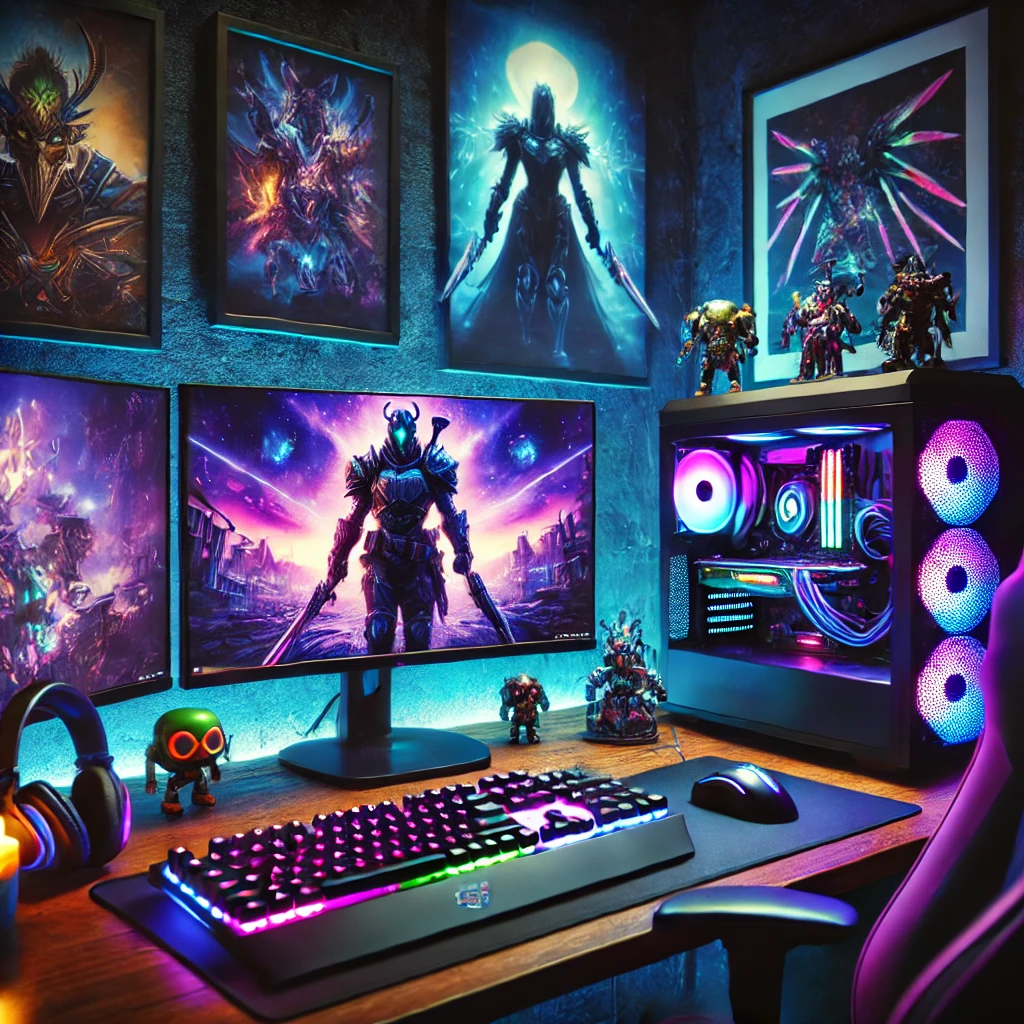
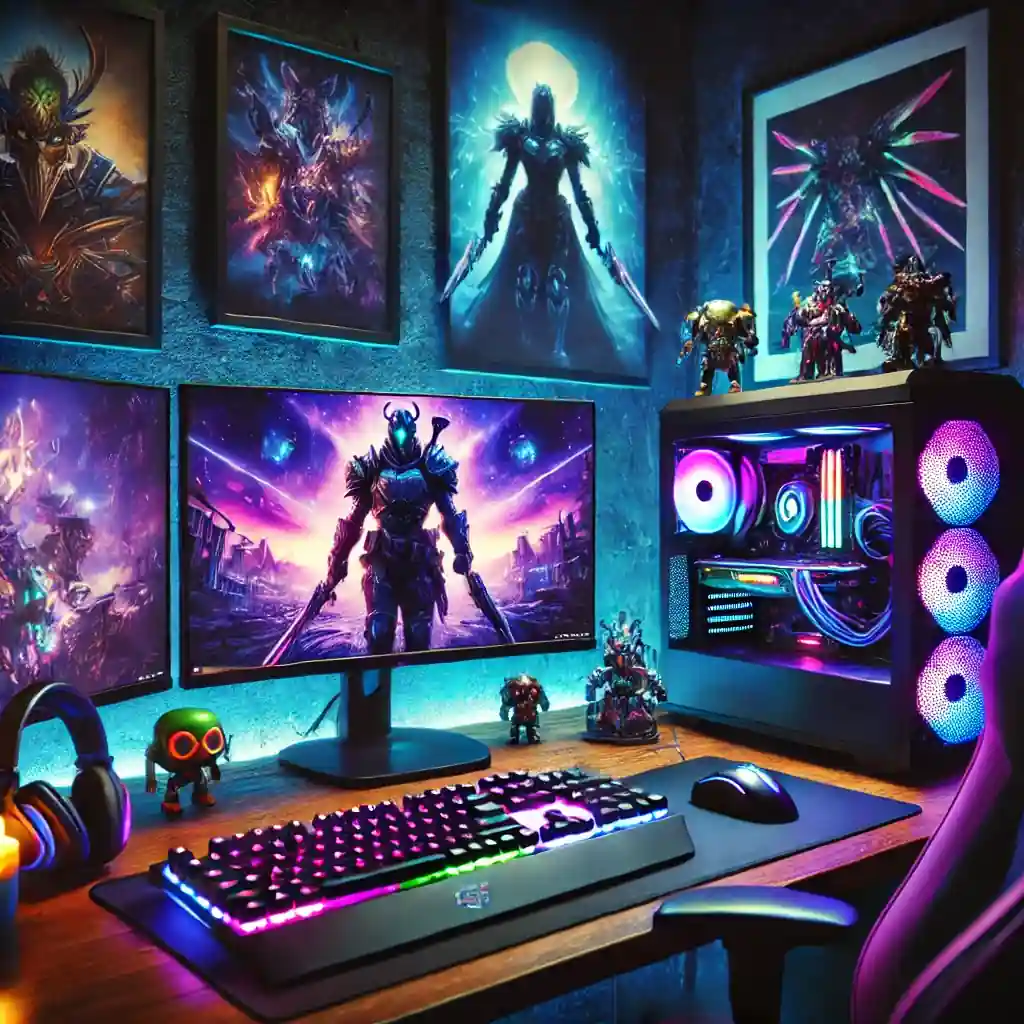
changement du format des images

diff --git a/build/index.html b/build/index.html
@@ -1,1 +1,1 @@
-<!doctype html><html lang="en"><head><meta charset="utf-8"/><link rel="icon" href="/portfolio_project_8/favicon.ico"/><meta name="viewport" content="width=device-width,initial-scale=1"/><meta name="theme-color" content="#000000"/><meta name="description" content="Web site created using create-react-app"/><link rel="apple-touch-icon" href="/portfolio_project_8/logo192.png"/><link rel="manifest" href="/portfolio_project_8/manifest.json"/><link rel="stylesheet" href="https://cdnjs.cloudflare.com/ajax/libs/font-awesome/6.0.0-beta3/css/all.min.css"/><link rel="preconnect" href="https://fonts.googleapis.com"><link rel="preconnect" href="https://fonts.gstatic.com" crossorigin><link href="https://fonts.googleapis.com/css2?family=Montserrat:ital,wght@0,100..900;1,100..900&display=swap" rel="stylesheet"><link href="https://fonts.googleapis.com/css2?family=Press+Start+2P&display=swap" rel="stylesheet"><title>React App</title><script defer="defer" src="/portfolio_project_8/static/js/main.6221584c.js"></script><link href="/portfolio_project_8/static/css/main.7f15e617.css" rel="stylesheet"></head><body><style>body{margin:0}</style><noscript>You need to enable JavaScript to run this app.</noscript><div id="root"></div></body></html>
+<!doctype html><html lang="en"><head><meta charset="utf-8"/><link rel="icon" href="/portfolio_project_8/favicon.ico"/><meta name="viewport" content="width=device-width,initial-scale=1"/><meta name="theme-color" content="#000000"/><meta name="description" content="Web site created using create-react-app"/><link rel="apple-touch-icon" href="/portfolio_project_8/logo192.png"/><link rel="manifest" href="/portfolio_project_8/manifest.json"/><link rel="stylesheet" href="https://cdnjs.cloudflare.com/ajax/libs/font-awesome/6.0.0-beta3/css/all.min.css"/><link rel="preconnect" href="https://fonts.googleapis.com"><link rel="preconnect" href="https://fonts.gstatic.com" crossorigin><link href="https://fonts.googleapis.com/css2?family=Montserrat:ital,wght@0,100..900;1,100..900&display=swap" rel="stylesheet"><link href="https://fonts.googleapis.com/css2?family=Press+Start+2P&display=swap" rel="stylesheet"><title>React App</title><script defer="defer" src="/portfolio_project_8/static/js/main.6221584c.js"></script><link href="/portfolio_project_8/static/css/main.74c2c730.css" rel="stylesheet"></head><body><style>body{margin:0}</style><noscript>You need to enable JavaScript to run this app.</noscript><div id="root"></div></body></html>

diff --git a/src/pages/Languages/index.jsx b/src/pages/Languages/index.jsx
@@ -3,11 +3,11 @@ import Card from '../../components/Card';
 import '../../assets/styles/Languages.scss';
 
 const dataCard = [
-  { title: 'HTML', imageSrc: require('../../assets/image/image_html.png') }, 
-  { title: 'CSS', imageSrc: require('../../assets/image/image_css.png') },  
-  { title: 'JS', imageSrc: require('../../assets/image/image_js.png') },  
-  { title: 'React', imageSrc: require('../../assets/image/image_react.png') },
-  { title: 'Node.js', imageSrc: require('../../assets/image/image_node_JS.png') }
+  { title: 'HTML', imageSrc: require('../../assets/image/image_html.webp') }, 
+  { title: 'CSS', imageSrc: require('../../assets/image/image_css.webp') },  
+  { title: 'JS', imageSrc: require('../../assets/image/image_js.webp') },  
+  { title: 'React', imageSrc: require('../../assets/image/image_react.webp') },
+  { title: 'Node.js', imageSrc: require('../../assets/image/image_node_JS.webp') }
 ];
 
 function Languages() {

diff --git a/src/pages/ProjectsSheet/index.jsx b/src/pages/ProjectsSheet/index.jsx
@@ -43,7 +43,7 @@ function ProjectsSheet() {
             {/* lien GitHub */}
             <a className='projectsSheet-githubLink' href={project.githubLink}
               target='_blank' rel='noopener noreferrer'>
-              <img src={require('../../assets/image/logo_github.png')} alt="GitHub Logo" />
+              <img src={require('../../assets/image/logo_github.webp')} alt="GitHub Logo" />
             </a>
           </div>
           <div className='projectsSheet-tagList'>
